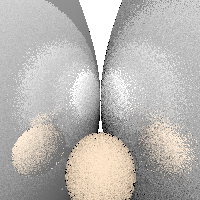
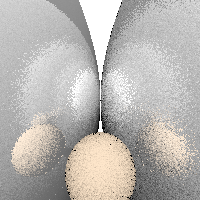
done aa and fix plane bugs

diff --git a/ray_tracer/program.py b/ray_tracer/program.py
@@ -80,8 +80,7 @@ class Plane():
         self.color = color
         self.shininess = shininess
         self.params = params
-        self.normal = params[:3]
-        self.normal /= np.linalg.norm(self.normal)
+        self.normal = params[:3] / np.linalg.norm(params[:3])
         self.roughness = roughness
         if(params[0] != 0):
             self.point = np.array([-params[3]/params[0], 0, 0])
@@ -89,7 +88,6 @@ class Plane():
             self.point = np.array([0, -params[3]/params[1], 0])
         elif(params[2] != 0):
             self.point = np.array([0, 0, -params[3]/params[2]])
-
     def __str__(self):
         return f"Plane. params: {self.params}, color: {self.color}"
     def getIntersection(self, ray):
@@ -128,6 +126,7 @@ class PNG:
         self.currentShininess = None
         self.currentRoughness = 0
         self.bounces = 4
+        self.aaNum = 1
         with open(inputFile) as f:
             lines = f.readlines()
             for line in lines:
@@ -154,22 +153,37 @@ class PNG:
             forward /= forward_length
         for xs in range(self.w):
             for ys in range(self.h):
-                sx = (2 * xs - self.w) / max(self.w, self.h)
-                sy = (self.h - 2 * ys) / max(self.w, self.h)
-                if(not self.enableFishEye):
-                    ray_direction = forward + sx * right + sy * up
-                    ray_direction /= np.linalg.norm(ray_direction)
-                else:
-                    sx /= forward_length
-                    sy /= forward_length
-                    r_2 = np.linalg.norm(sx) ** 2 + np.linalg.norm(sy) ** 2
-                    if(r_2 > 1):
-                        continue
-                    ray_direction = np.sqrt(1-r_2) * forward + sx * right + sy * up
-                    ray_direction /= np.linalg.norm(ray_direction)
-                fragColor, hasHitObject = self.ray_tracing([ray_origin, ray_direction], emittingObject=None, bounces=self.bounces)
-                if(hasHitObject):
-                    self.fillPixels(xs, ys, *fragColor, 1, self.enableSRGB)
+                # shoot aaNum rays on this pixel, and average the color
+                allRaysMissed = True
+                accumulatedFragColor = np.array([0.0, 0.0, 0.0])
+                for _ in range(self.aaNum):
+                    if(self.aaNum == 1):
+                        # shoot the midpoint of pixel
+                        aa_xs = xs
+                        aa_ys = ys
+                    else:
+                        aa_xs = xs + np.random.uniform()-0.5
+                        aa_ys = ys + np.random.uniform()-0.5
+                    sx = (2 * aa_xs - self.w) / max(self.w, self.h)
+                    sy = (self.h - 2 * aa_ys) / max(self.w, self.h)
+                    if(not self.enableFishEye):
+                        ray_direction = forward + sx * right + sy * up
+                        ray_direction /= np.linalg.norm(ray_direction)
+                    else:
+                        sx /= forward_length
+                        sy /= forward_length
+                        r_2 = np.linalg.norm(sx) ** 2 + np.linalg.norm(sy) ** 2
+                        if(r_2 > 1):
+                            continue
+                        ray_direction = np.sqrt(1-r_2) * forward + sx * right + sy * up
+                        ray_direction /= np.linalg.norm(ray_direction)
+                    fragColor, hasHitObject = self.ray_tracing([ray_origin, ray_direction], emittingObject=None, bounces=self.bounces)
+                    if(hasHitObject):
+                        allRaysMissed = False
+                        accumulatedFragColor += fragColor
+                if(not allRaysMissed):
+                    avgFragColor = accumulatedFragColor / self.aaNum
+                    self.fillPixels(xs, ys, *avgFragColor, 1, self.enableSRGB)
 
     def getDiffuseLightWithShadows(self, hitPoint, hitObject, normal):
         diffuseColor = np.array([0.0, 0.0, 0.0])
@@ -335,6 +349,10 @@ class PNG:
         elif(keyword == "roughness"):
             sigma = float(info[1])
             self.currentRoughness = sigma
+
+        elif(keyword == "aa"):
+            aaNum = int(info[1])
+            self.aaNum = aaNum
         
 if __name__ == '__main__':
     # print(sys.argv)
